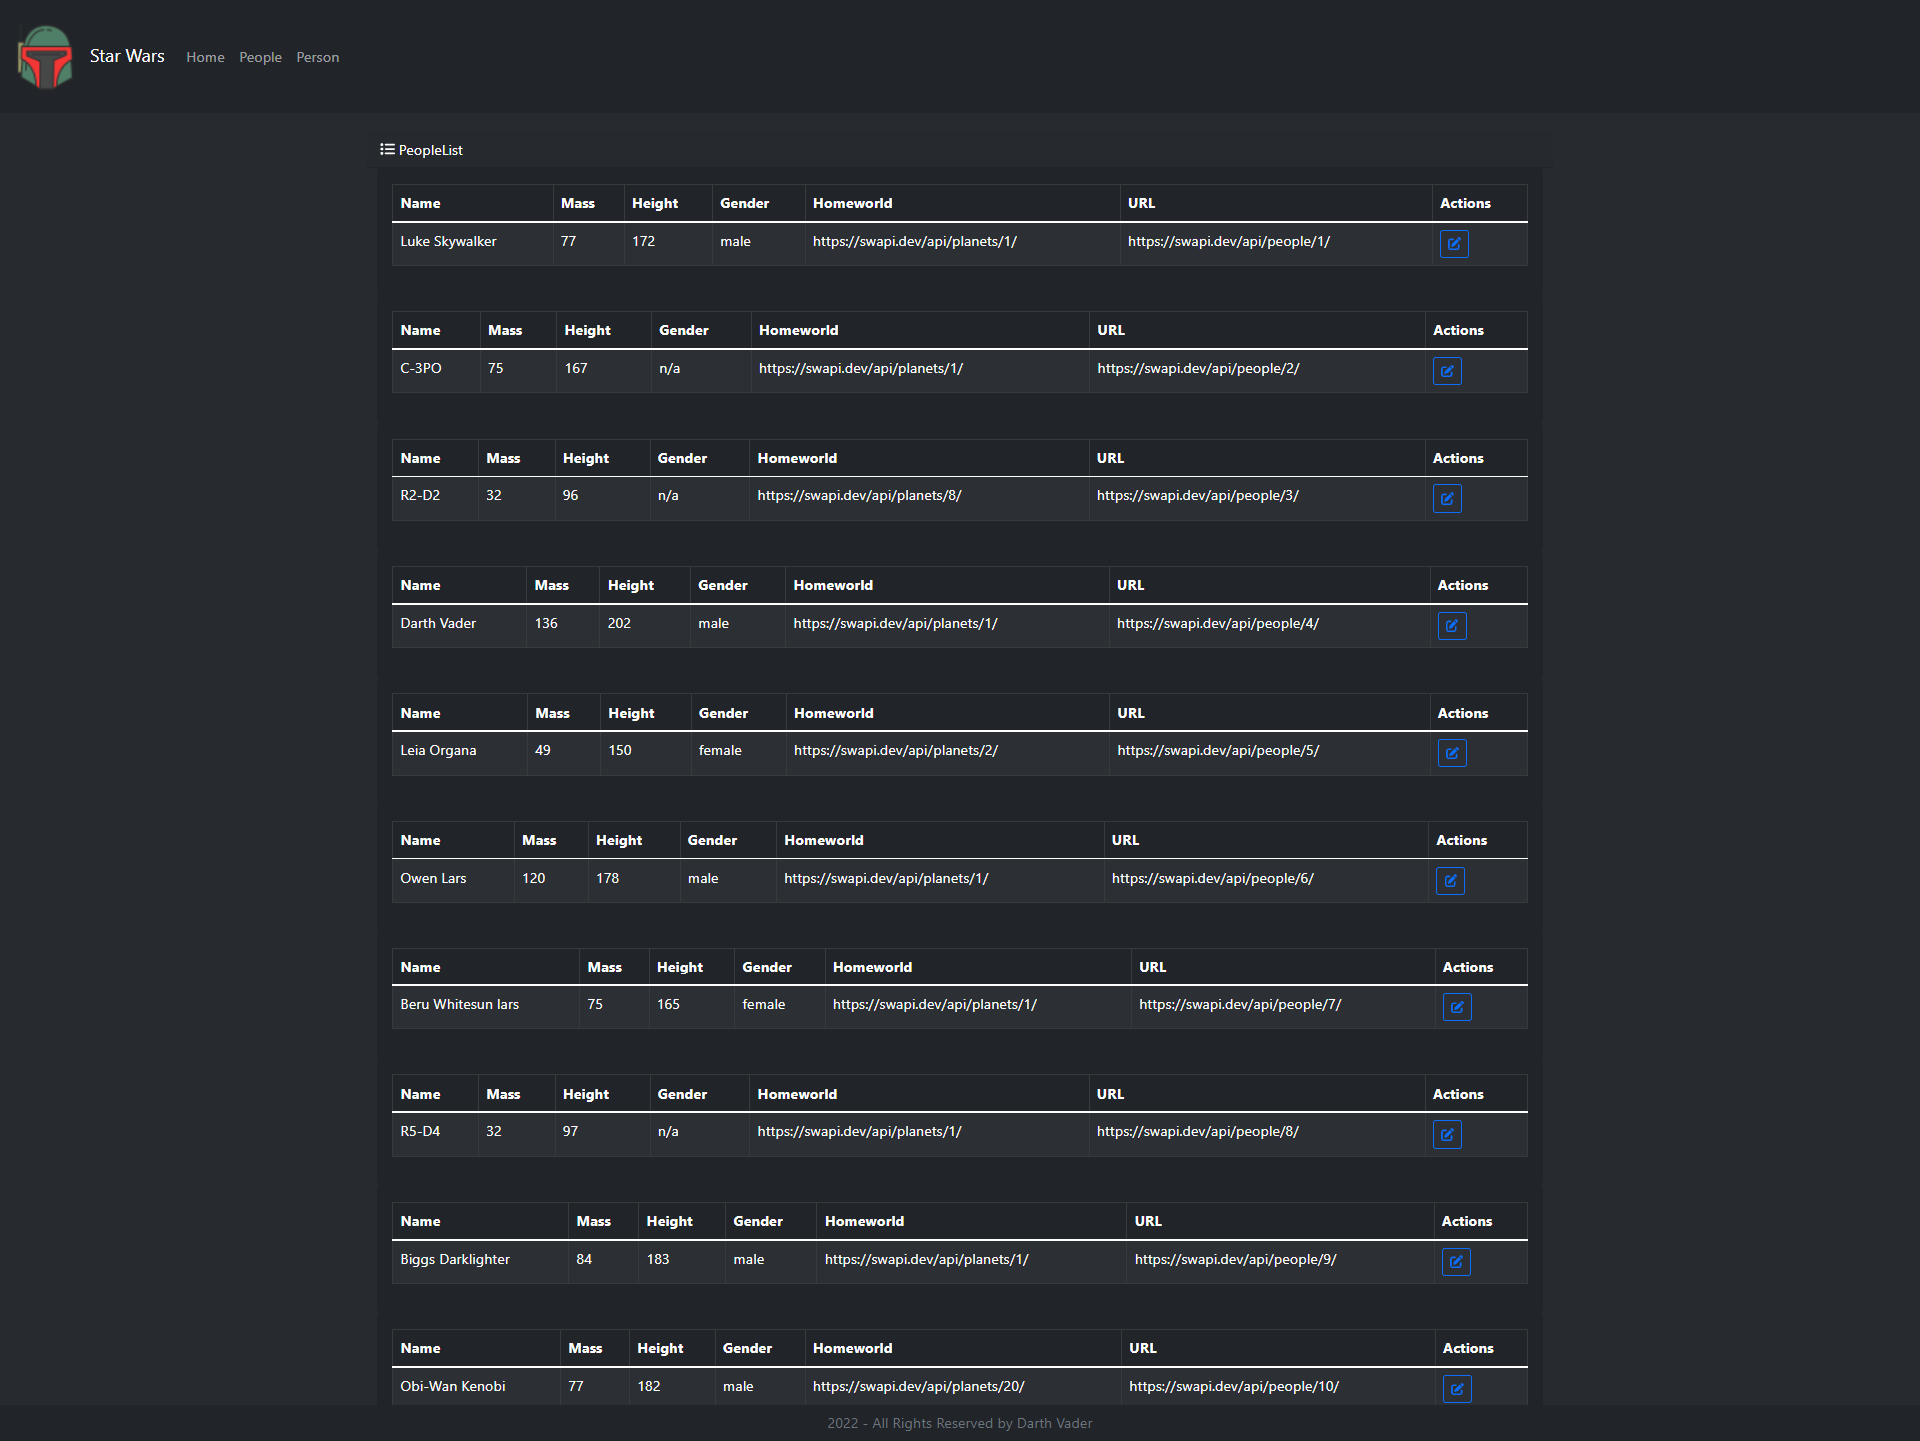
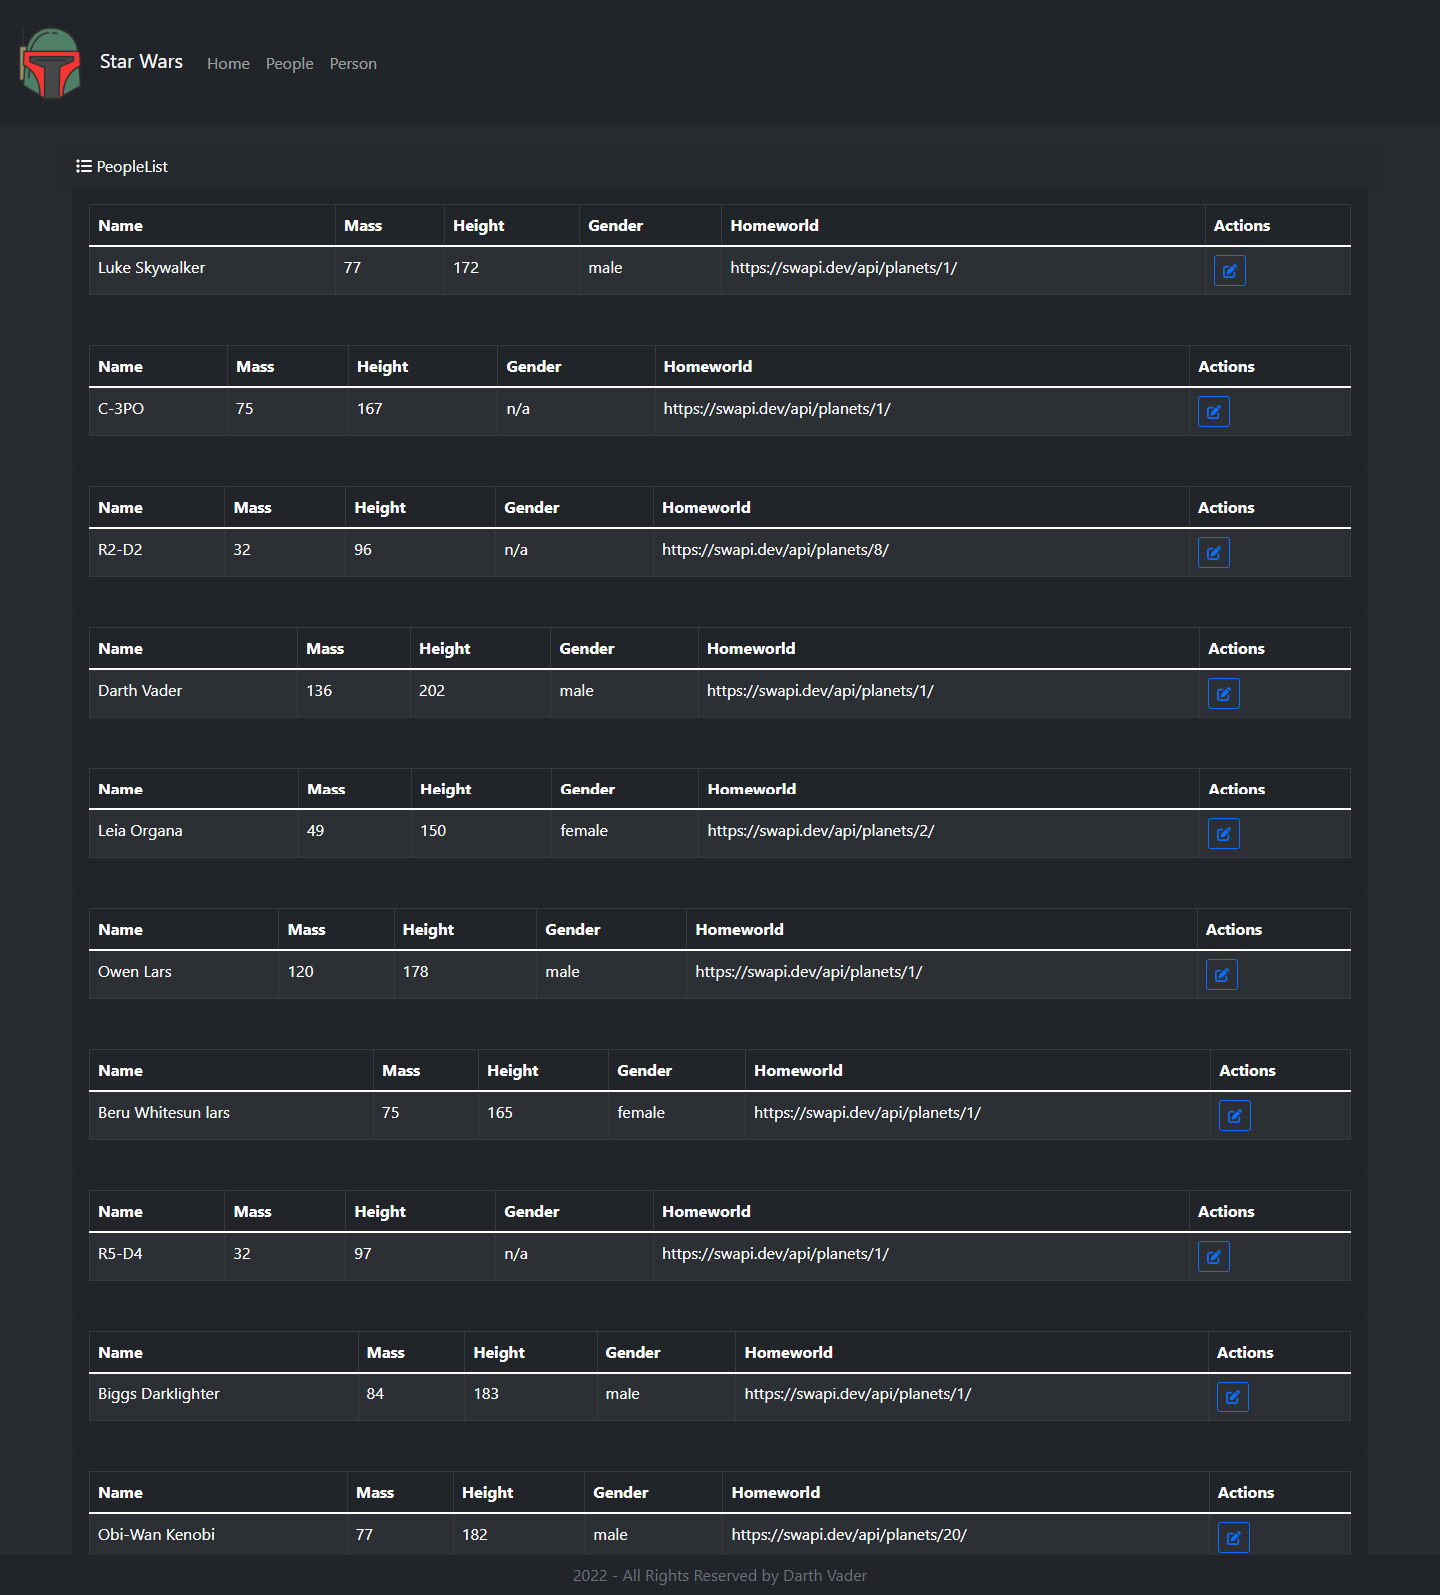
fix minor issues and bugs and add screenshots

diff --git a/src/components/People.js b/src/components/People.js
@@ -53,7 +53,7 @@ function People() {
                     <th>Height</th>
                     <th>Gender</th>
                     <th>Homeworld</th>
-                    <th>URL</th>
+                    {/* <th>URL</th> */}
                     <th>Actions</th>
                   </tr>
                 </thead>
@@ -70,7 +70,7 @@ function People() {
                     <td>{height}</td>
                     <td>{gender}</td>
                     <td>{homeworld}</td>
-                    <td>{url}</td>
+                    {/* <td>{url}</td> */}
                     <td>
                       <ButtonGroup>
                         <Link to={`/person/${name}`} className="btn btn-sm btn-outline-primary">
